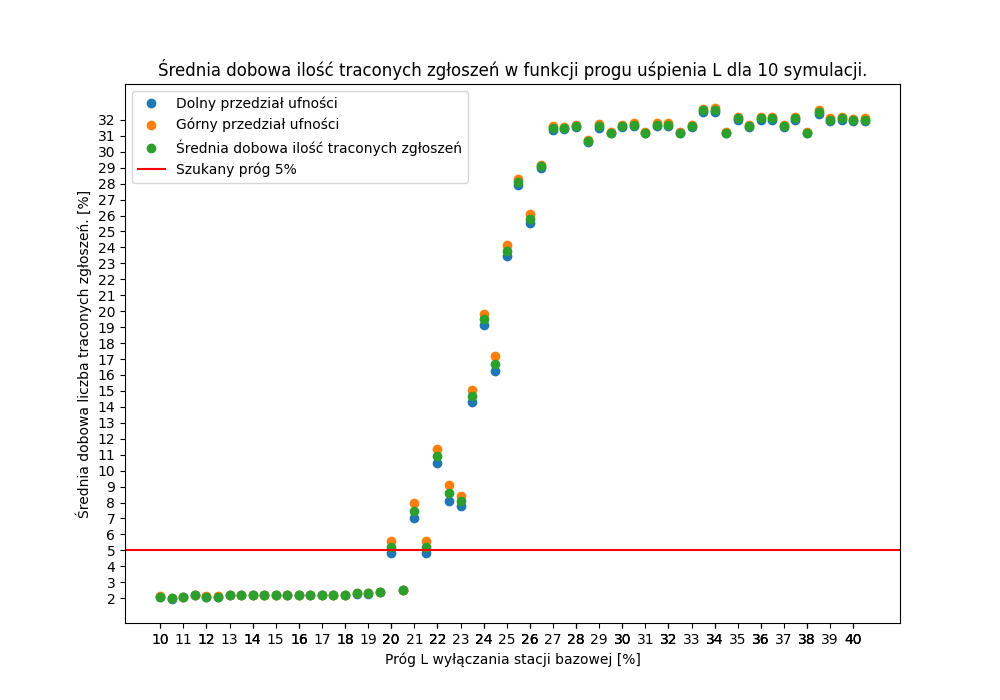
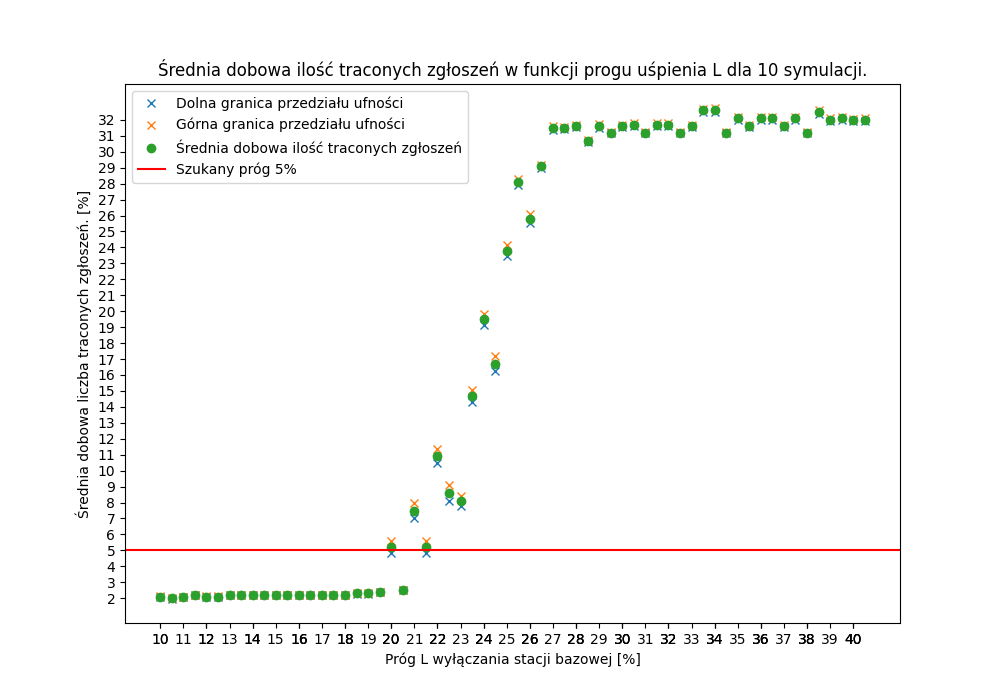
Some changes with histograms.

diff --git a/max_lambda_simulation multitheading.py b/max_lambda_simulation multitheading.py
@@ -303,12 +303,23 @@ def execute_event(event : Event, base_beta : float, network_beta : Network, day_
     return day_no
 
 def draw_save_plot(simulation_counter,base_beta):
-    fig_tau = plt.hist(generator.tau_hist, 30)
-    plt.savefig(f'wyniki_lambda_max/wyniki_{COUNT}/symulacja_{simulation_counter}/hist/tau/tau_for_beta_{base_beta}.png')
+    fig_tau = plt.hist(generator.tau_hist, 1000)
+    plt.title(f"Histogram rozkładu czasu między kolejnymi zgłoszeniami dla lambda={round((1/base_beta),2)}", fontsize=9)
+    plt.xlabel("Czas pomiędzy kolejnymi zgłoszeniami [s]")
+    plt.ylabel("Ilość wystąpień")
+    plt.savefig(f'wyniki_lambda_max/wyniki_{count}/symulacja_{simulation_counter}/hist/tau/tau_for_beta_{base_beta}.png')
+    #plt.show(block=False)
+    #plt.pause(3)
     plt.close()
     fig_mi = plt.hist(generator.mi_hist, 30)
-    plt.savefig(f'wyniki_lambda_max/wyniki_{COUNT}/symulacja_{simulation_counter}/hist/mi/mi_for_beta_{base_beta}.png')    
+    plt.title(f"Histogram rozkładu czasu obsługi")
+    plt.xlabel("Czas obsługi [s]")
+    plt.ylabel("Ilość wystąpień")
+    plt.savefig(f'wyniki_lambda_max/wyniki_{count}/symulacja_{simulation_counter}/hist/mi/mi_for_beta_{base_beta}.png')    
+    #plt.show(block=False)
+    #plt.pause(3)
     plt.close()
+    
     
 def save_data_for_given_beta(base_beta : float, simulation_counter : int):
     draw_save_plot(simulation_counter,base_beta)

diff --git a/max_lambda_simulation.py b/max_lambda_simulation.py
@@ -301,20 +301,26 @@ def execute_event(event : Event, base_beta : float, network_beta : Network, day_
         logging.info("Błędne zdarzenie")
     return day_no
 
-def draw_save_plot():
-    fig_tau = plt.hist(generator.tau_hist, 30)
+def draw_save_plot(base_beta : float):
+    fig_tau = plt.hist(generator.tau_hist, 1000)
+    plt.title(f"Histogram rozkładu czasu między kolejnymi zgłoszeniami dla lambda={round((1/base_beta),2)}", fontsize=9)
+    plt.xlabel("Czas pomiędzy kolejnymi zgłoszeniami [s]")
+    plt.ylabel("Ilość wystąpień")
     plt.savefig(f'wyniki_lambda_max/wyniki_{count}/symulacja_{simulation_counter}/hist/tau/tau_for_beta_{base_beta}.png')
     #plt.show(block=False)
     #plt.pause(3)
     plt.close()
     fig_mi = plt.hist(generator.mi_hist, 30)
+    plt.title(f"Histogram rozkładu czasu obsługi")
+    plt.xlabel("Czas obsługi [s]")
+    plt.ylabel("Ilość wystąpień")
     plt.savefig(f'wyniki_lambda_max/wyniki_{count}/symulacja_{simulation_counter}/hist/mi/mi_for_beta_{base_beta}.png')    
     #plt.show(block=False)
     #plt.pause(3)
     plt.close()
     
 def save_data_for_given_beta(base_beta : float, count : int, simulation_counter : int):
-    draw_save_plot()
+    draw_save_plot(base_beta)
     logger.warning(f"[ZAKONCZONO_DLA_BETA] - {base_beta}")
  
 def save_data_for_too_small_beta():

diff --git a/Wyniki/seed_12/confidence_interval_L.py b/Wyniki/seed_12/confidence_interval_L.py
@@ -51,8 +51,8 @@ if __name__ == '__main__':
     plot_data["mean"] = [elem*100 for elem in plot_data["mean"]]
     plot_data["conf_high-mean"] = [elem*100 for elem in plot_data["conf_high-mean"]]
     plot_data["mean-conf_low"] = [elem*100 for elem in plot_data["mean-conf_low"]]
-    plt.plot(plot_data["L"], plot_data["mean-conf_low"], 'o', label="Dolny przedział ufności")
-    plt.plot(plot_data["L"], plot_data["conf_high-mean"], 'o', label="Górny przedział ufności")
+    plt.plot(plot_data["L"], plot_data["mean-conf_low"], 'x', label="Dolna granica przedziału ufności")
+    plt.plot(plot_data["L"], plot_data["conf_high-mean"], 'x', label="Górna granica przedziału ufności")
     plt.plot(plot_data["L"], plot_data["mean"], 'o', label="Średnia dobowa ilość traconych zgłoszeń")
     plt.axhline(y=5, color='red', label="Szukany próg 5%")
     plt.yticks(np.arange(min(plot_data["mean"]), max(plot_data["mean"]), 1))

diff --git a/generator.py b/generator.py
@@ -39,7 +39,7 @@ class Generator_seeded():
         self.tau = round(self.prng.exponential(scale=self.beta)*60,3)# funkcja generuje po ilu minutach pojawi się kolejny user, mnożymy przeliczając na sekundy
         self.tau_hist.append(self.tau) 
     def generator_UE_time_of_life(self):
-        self.mi = round(self.prng.uniform(1,31), 3) # czas w sekundach na ile czasu user zajmie miejsce w systemie
+        self.mi = round(self.prng.uniform(1,30), 3) # czas w sekundach na ile czasu user zajmie miejsce w systemie
         self.mi_hist.append(self.mi)  
     def generate_init_no_users(self):
         return int(self.prng.uniform(self.max_t_zero,self.max_t_zero))

diff --git a/Wyniki/seed_12/confidence_interva_lambda.py b/Wyniki/seed_12/confidence_interva_lambda.py
@@ -33,8 +33,8 @@ if __name__ == '__main__':
         data_H.append(value+conf_high)
     plt.rc('figure', figsize=(10, 7))
     plt.figure()
-    plt.plot(n, data_L, 'o', label="Dolny przedział ufności")
-    plt.plot(n, data_H, 'o', label="Górny przedział ufności")
+    plt.plot(n, data_L, 'x', label="Dolna granica przedziału ufności")
+    plt.plot(n, data_H, 'x', label="Górna granica przedziału ufności")
     plt.plot(n, data, 'o', label="λ_max")
     plt.axhline(y=mean, color='red', label="Średnia wartość λ_max ")
     plt.xticks(n)
